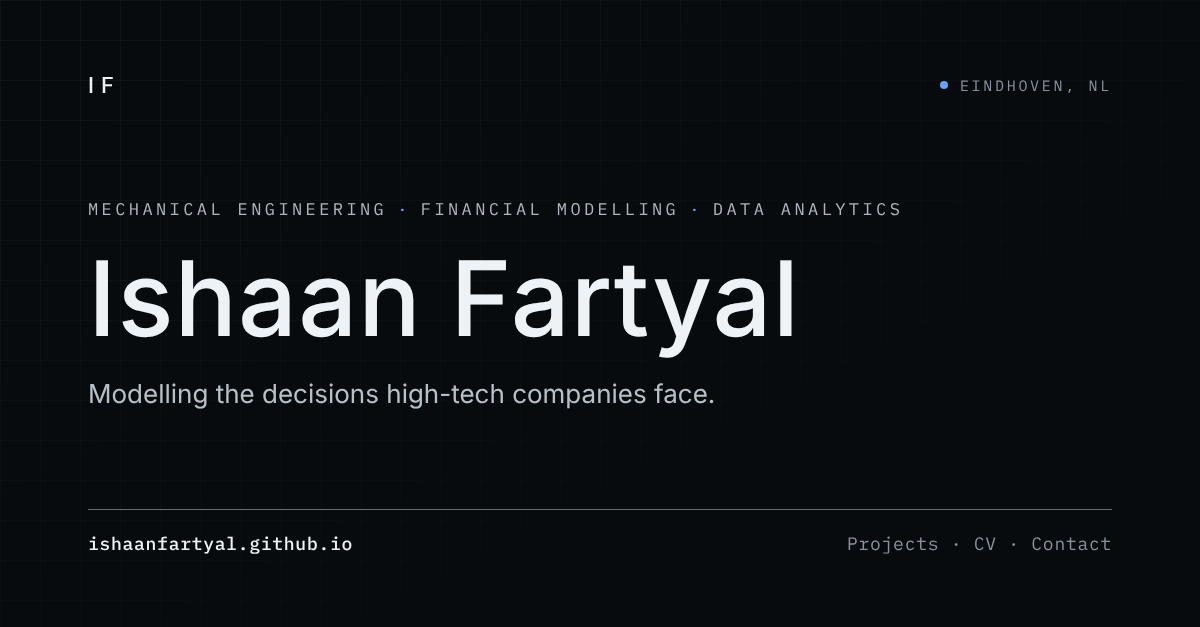
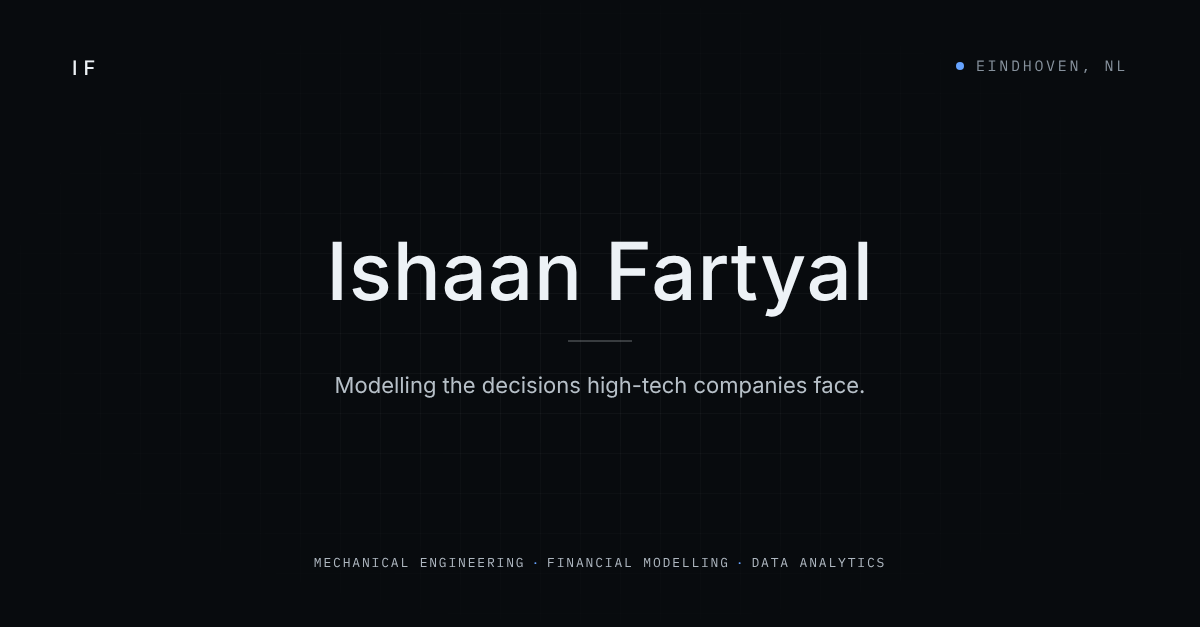
Update website preview (again)

diff --git a/index.html b/index.html
@@ -1,5 +1,5 @@
 <!DOCTYPE html>
-<!-- If you're reading this, welcome to my website. Here's a cookie for your effort 🍪 -->
+<!-- If you're reading this, welcome to my website. Here's a cookie 🍪 -->
 <html lang="en">
 <head>
   <meta charset="UTF-8" />
